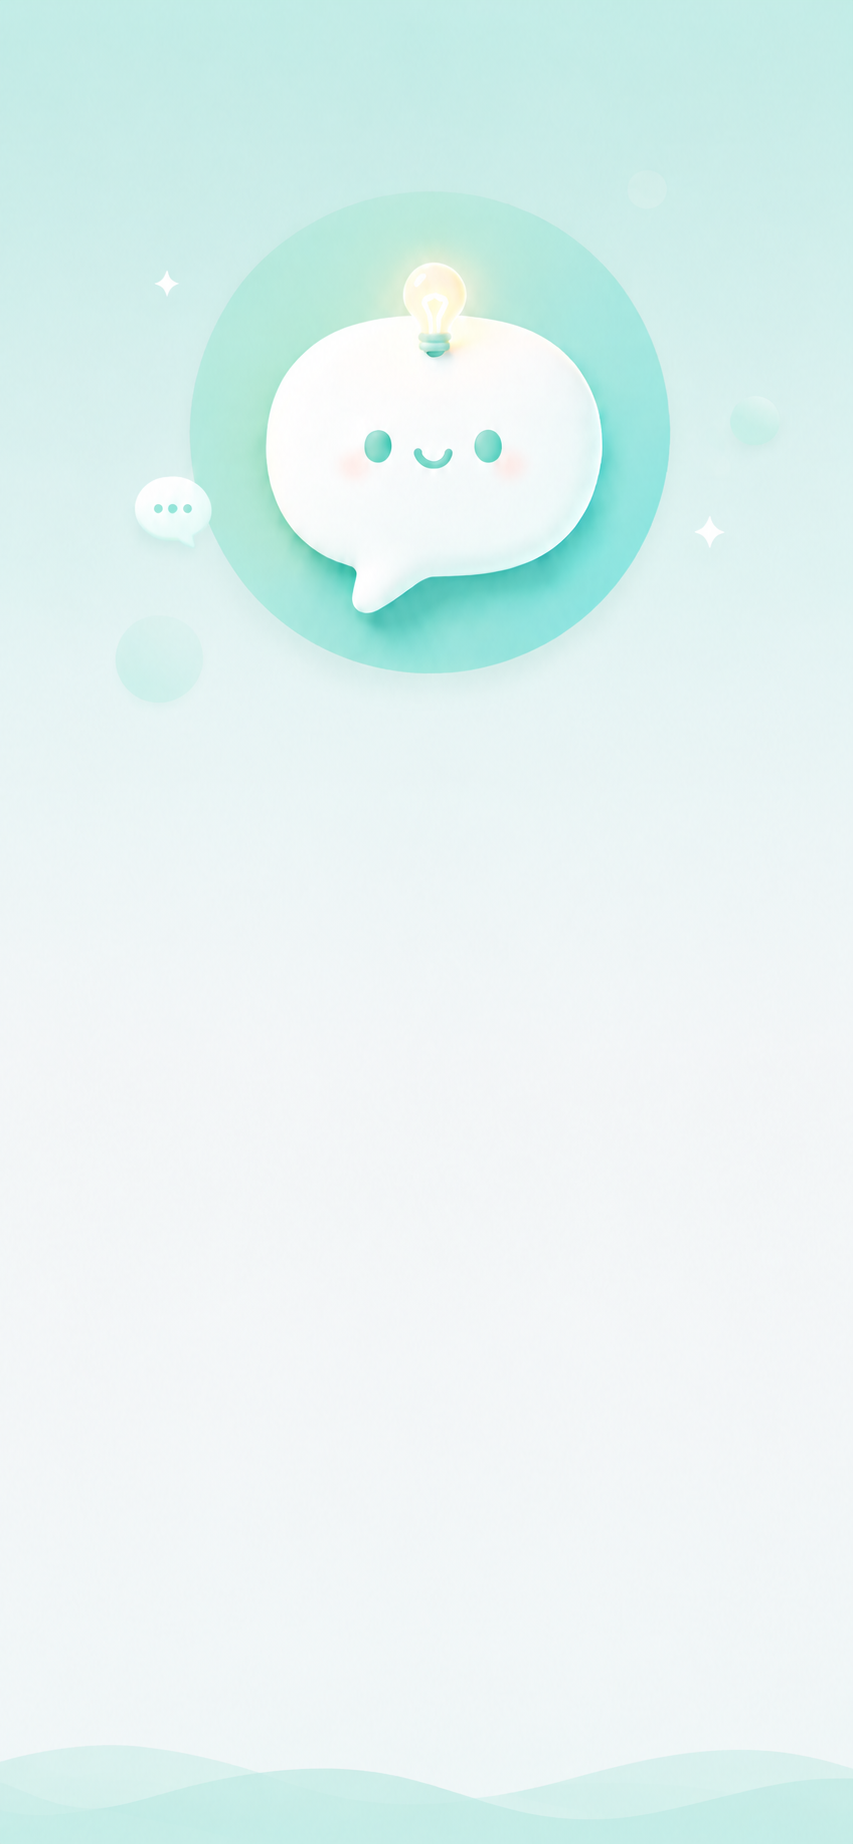
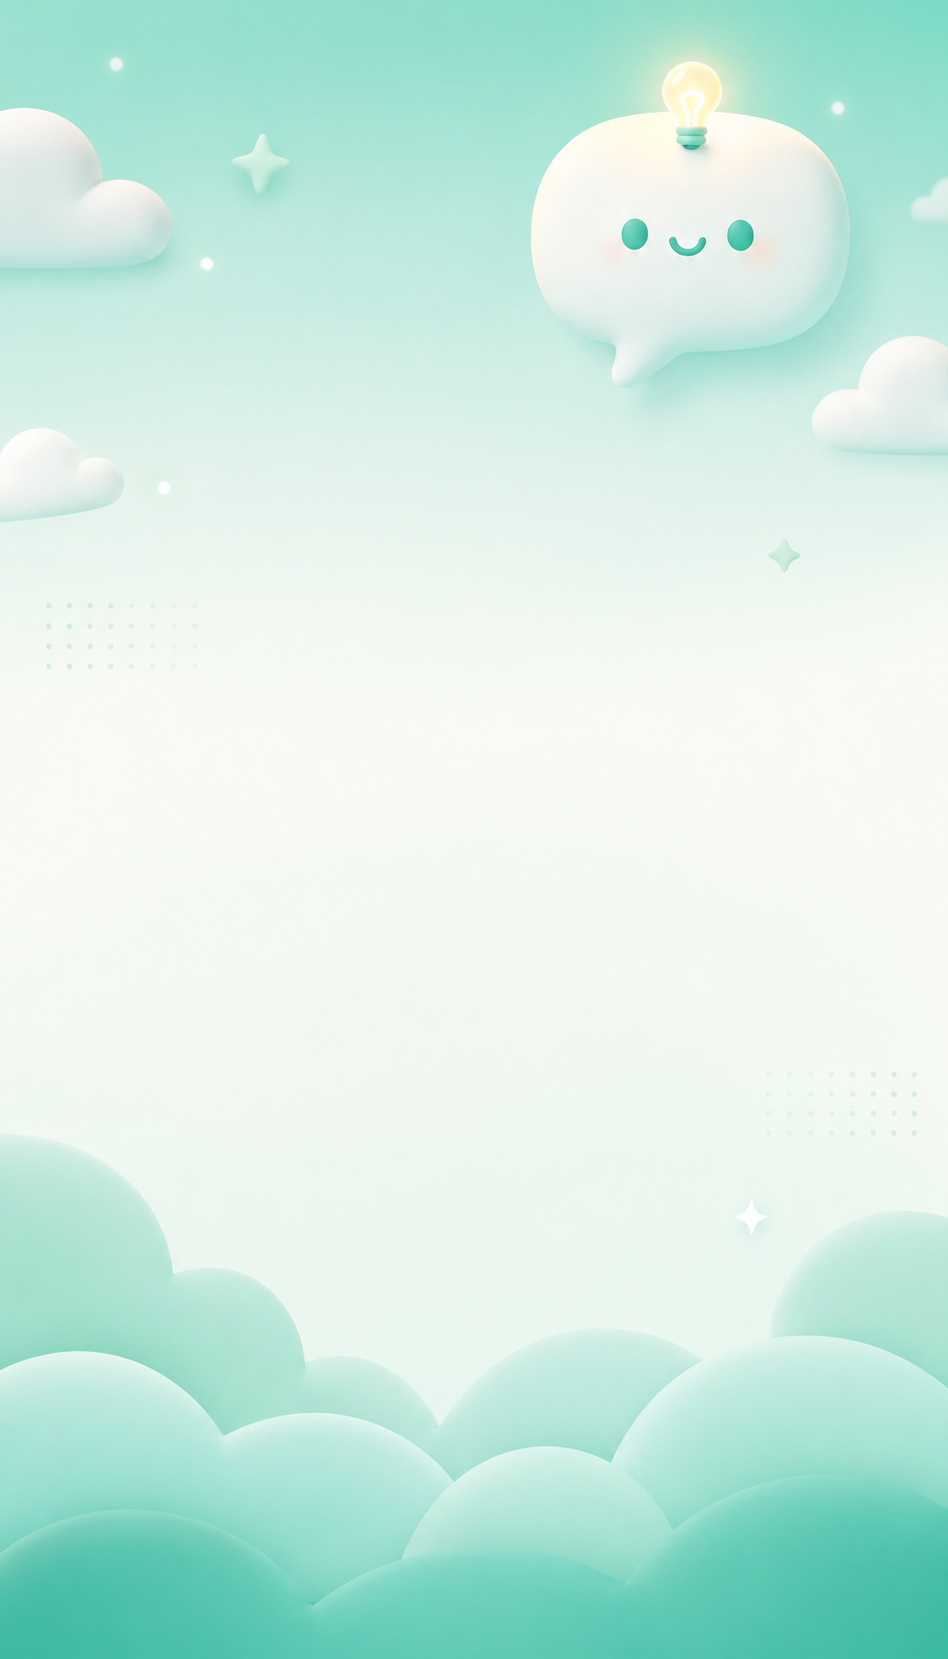
update: 1.4.6

diff --git a/src/styles.css b/src/styles.css
@@ -84,8 +84,11 @@ button:disabled {
   display: grid;
   place-items: center;
   padding: 24px;
-  background: url('/h5-bg.png') no-repeat center center;
-  background-size: cover;
+  background-color: #ffffff;
+  background-image: url('/h5-bg-top.png'), url('/h5-bg-bottom.png');
+  background-repeat: no-repeat, no-repeat;
+  background-position: top center, bottom center;
+  background-size: 100% auto, 100% auto;
   /* background: linear-gradient(-45deg, #0d9488, #0891b2, #2563eb, #06b6d4, #14b8a6);
   background-size: 400% 400%;
   animation: gateGradient 12s ease infinite; */
@@ -1594,9 +1597,9 @@ button:disabled {
 
   .gate-card {
     position: absolute;
-    top: 41%;
+    top: 50%;
     left: 50%;
-    transform: translateX(-50%);
+    transform: translateX(-50%) translateY(-50%);
     width: 95%;
   }
 

diff --git a/src/App.jsx b/src/App.jsx
@@ -33,6 +33,7 @@ const DRAW_SIZE_OPTIONS = [
   { value: '1024x1024', label: '1:1 方图' },
   { value: '1024x1536', label: '2:3 竖图' },
   { value: '1024x1792', label: '9:16 全屏' },
+  { value: '2048×3072', label: '2K全屏' },
   { value: '1536x1024', label: '3:2 横图' },
 ];
 
@@ -2640,7 +2641,7 @@ export default function App() {
                       <span>尺寸</span>
                       <select
                         className="draw-config-select"
-                        value={settings.drawSize || '1024x1024'}
+                        value={settings.drawSize || '1024x1792'}
                         onChange={(e) => setSettings((s) => ({ ...s, drawSize: e.target.value }))}
                       >
                         {DRAW_SIZE_OPTIONS.map((opt) => (
